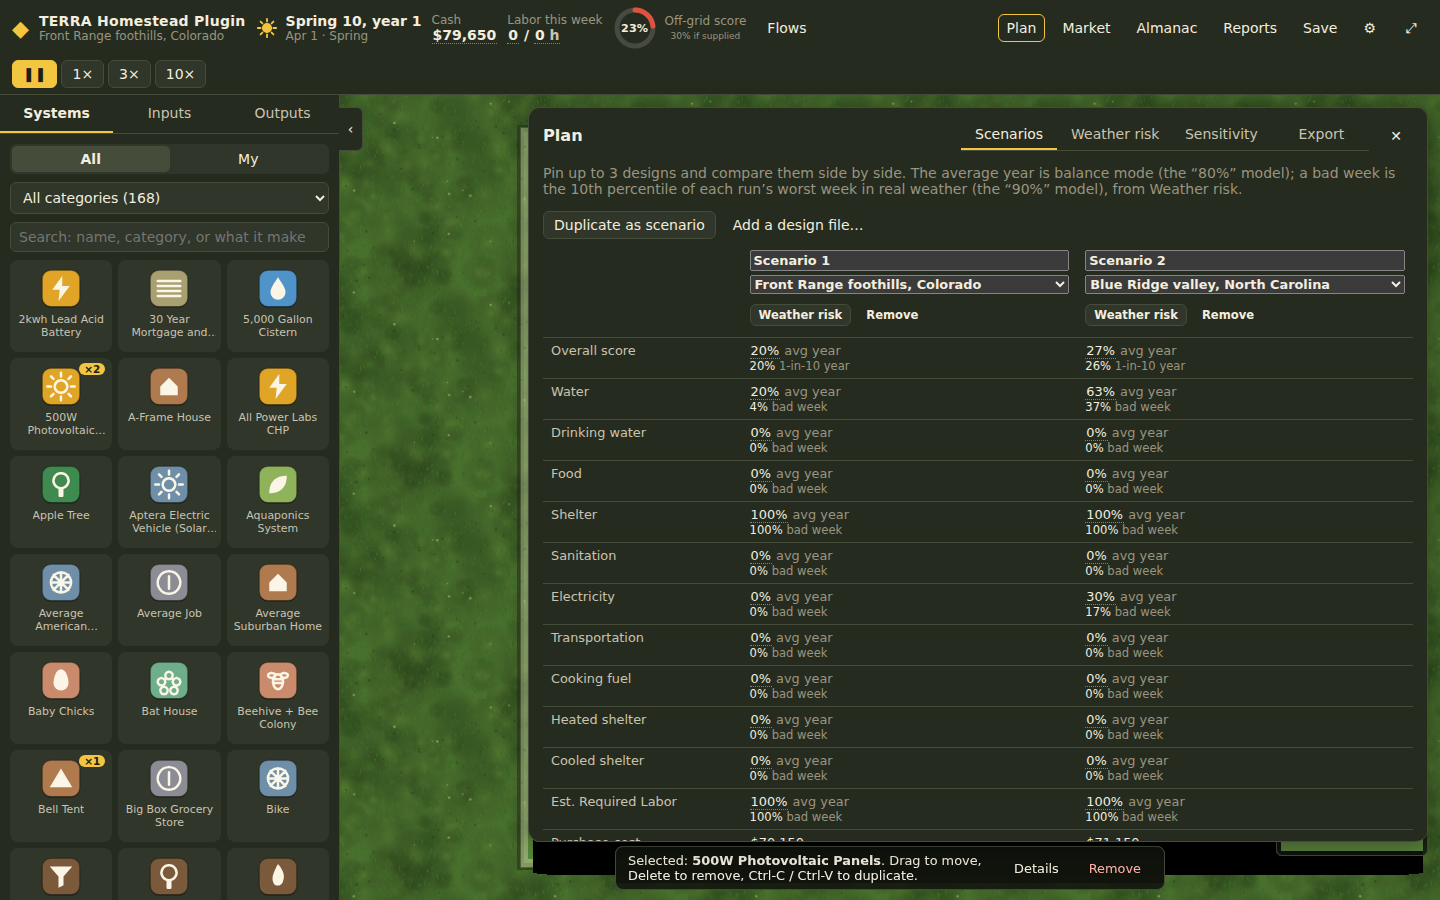
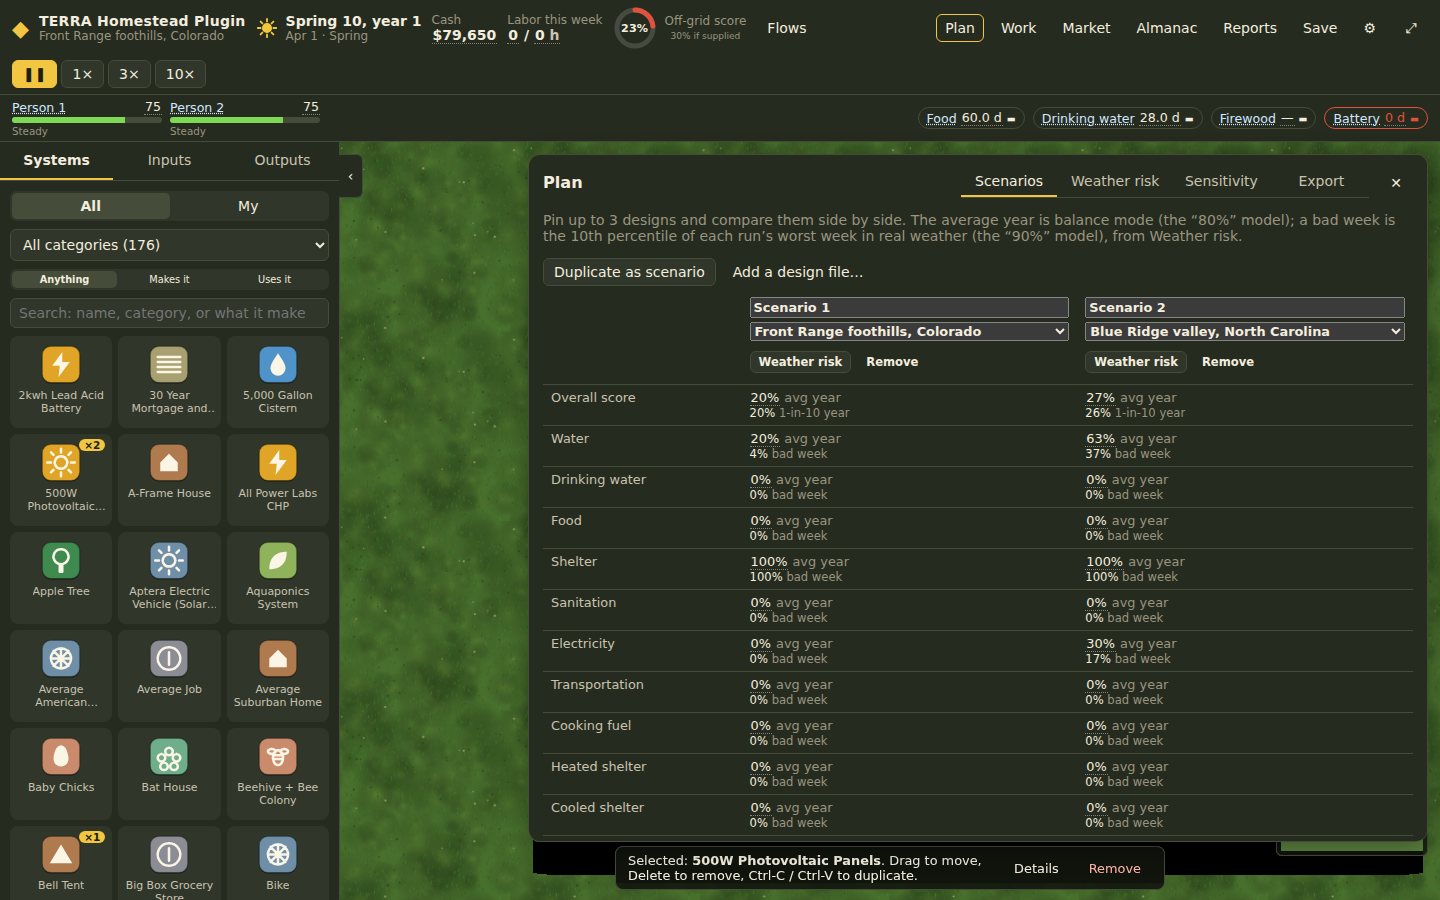
G16: quest card with show me, tutorial e2e, balance log and build log
Claude-Session: https://claude.ai/code/session_01Cgr9ruYvpu94GxHXpsg1dC

diff --git a/tests/e2e/tutorial.spec.ts b/tests/e2e/tutorial.spec.ts
@@ -1,0 +1,92 @@
+import { expect, test, type Page } from '@playwright/test';
+import { openApp, shot } from './helpers.ts';
+
+const title = (page: Page) => page.getByTestId('quest-title');
+
+/** Run the clock a day at a time until the quest card moves on (or give up). */
+async function untilQuestChanges(page: Page, from: string, maxDays = 30) {
+  for (let d = 0; d < maxDays; d++) {
+    if ((await title(page).textContent()) !== from) return;
+    await page.evaluate(() => window.__homestead!.store.getState().tick(1));
+  }
+  await expect(title(page)).not.toHaveText(from);
+}
+
+async function placeNearTent(page: Page, name: string, dx: number, dy: number) {
+  const ok = await page.evaluate(
+    ([n, ox, oy]) => {
+      const s = window.__homestead!.store.getState();
+      const tent = s.game.instances.find((i) => s.catalog.systems.find((x) => x.id === i.systemId)!.name.startsWith('Canvas Wall Tent'))!;
+      s.startPlacing(s.catalog.systems.find((x) => x.name === n)!.id, 'diy');
+      const r = window.__homestead!.store.getState().placeAt(tent.x + (ox as number), tent.y + (oy as number));
+      window.__homestead!.store.getState().cancelTool();
+      return r.ok;
+    },
+    [name, dx, dy] as const,
+  );
+  expect(ok, name).toBe(true);
+}
+
+test('the first five greenfield quests, with show me and the neighbor’s rewards', async ({ page }) => {
+  test.setTimeout(180_000);
+  await openApp(page);
+  await page.evaluate(() => window.__homestead!.store.getState().setWizard(true));
+  await page.getByTestId('start-greenfield').click();
+  await page.getByTestId('site-front-range').click();
+  await page.getByTestId('start-begin').click();
+  await page.evaluate(() => window.__homestead!.store.getState().zoomToFit());
+
+  // 1. Water: the barrel and the filter are in the kit; show me points at the barrel.
+  await expect(title(page)).toHaveText("Fill the rain barrel and filter a day's water");
+  await page.getByTestId('quest-show-me').click();
+  await expect(page.getByTestId('system-card')).toContainText('Rain Barrel');
+  await shot(page, 'g16', '01-quest-water-show-me');
+  await page.keyboard.press('Escape');
+  await untilQuestChanges(page, "Fill the rain barrel and filter a day's water");
+
+  // 2. Firewood: show me focuses the deadfall; a weekly cap in the Work panel sends someone out.
+  await expect(title(page)).toHaveText('Gather a week of firewood from the deadfall');
+  await page.getByTestId('quest-show-me').click();
+  await shot(page, 'g16', '02-quest-firewood-deadfall');
+  await page.getByTestId('open-work').click();
+  await page.getByTestId('cap-gather-wood').fill('6');
+  await page.getByTestId('cap-gather-wood').blur();
+  await page.getByTestId('open-work').click();
+  await untilQuestChanges(page, 'Gather a week of firewood from the deadfall');
+  const reward = await page.evaluate(() => window.__homestead!.store.getState().game.stocks['Root crops'] ?? 0);
+  expect(reward).toBeGreaterThan(0); // Ruth's seed potatoes
+
+  // 3. A raised bed (and the potatoes) with soil and compost from the market.
+  await expect(title(page)).toHaveText('Build a raised bed and plant it');
+  await page.getByTestId('quest-show-me').click();
+  await shot(page, 'g16', '03-quest-bed-show-me');
+  await page.keyboard.press('Escape');
+  await page.evaluate(() => {
+    const s = window.__homestead!.store.getState();
+    s.marketBuy('Soil', 24);
+    s.marketBuy('Compost', 250);
+  });
+  await placeNearTent(page, 'Raised Beds (24 sq ft)', 0, 30);
+  await placeNearTent(page, 'Potato Patch (400 sq ft)', 35, 35);
+  await untilQuestChanges(page, 'Build a raised bed and plant it');
+
+  // 4. Compost from kitchen scraps.
+  await expect(title(page)).toHaveText('Start a compost pile with leaf litter and kitchen scraps');
+  await placeNearTent(page, 'Bokashi Bucket', -20, 0);
+  await untilQuestChanges(page, 'Start a compost pile with leaf litter and kitchen scraps');
+  await shot(page, 'g16', '04-quest-compost-done');
+
+  // 5. Auto-gather: keep a week of water, set in the Work panel.
+  await expect(title(page)).toHaveText('Set an auto-gather rule so you never run out of water');
+  await page.getByTestId('quest-show-me').click();
+  await expect(page.getByTestId('work')).toBeVisible();
+  await page.getByTestId('auto-water').fill('7');
+  await page.getByTestId('auto-water').blur();
+  await shot(page, 'g16', '05-quest-autowater-work-panel');
+  await page.getByTestId('open-work').click();
+  await untilQuestChanges(page, 'Set an auto-gather rule so you never run out of water', 3);
+  await expect(title(page)).toHaveText('Add a chicken coop and keep the hens fed');
+  const done = await page.evaluate(() => Object.keys(window.__homestead!.store.getState().game.tutorial!.done));
+  expect(done).toHaveLength(5);
+  await shot(page, 'g16', '06-quest-six-hens-next');
+});

diff --git a/apps/web/src/ui/Quests.tsx b/apps/web/src/ui/Quests.tsx
@@ -1,4 +1,5 @@
-import { MILESTONES, QUESTS, shortageHints } from '@homestead/engine';
+import { MILESTONES, QUESTS, questView, shortageHints } from '@homestead/engine';
+import type { QuestShow } from '@homestead/catalog';
 import { fmtMoney, fmtNum, fmtPct } from '../lib/format.ts';
 import { useGame } from '../store/game.ts';
 
@@ -9,6 +10,7 @@ export function QuestCard() {
   const progress = useGame((s) => s.progress);
   const readOnly = useGame((s) => s.readOnly);
   if (progress.tutorialSkipped || readOnly) return null;
+  if (game.tutorial) return <TutorialCard />;
   const q = QUESTS.find((x) => progress.quests[x.id] === undefined);
   const done = QUESTS.filter((x) => progress.quests[x.id] !== undefined).length;
   const badges = MILESTONES.filter((m) => progress.milestones[m.id] !== undefined);
@@ -92,6 +94,69 @@ export function HintCard() {
           </li>
         ))}
       </ul>
+    </aside>
+  );
+}
+
+/** "Show me": point at the drawer item, node, resource page, or panel a quest is about. */
+export function showMe(show: QuestShow): void {
+  const st = useGame.getState();
+  switch (show.kind) {
+    case 'system': {
+      const sys = st.catalog.systems.find((x) => x.name === show.name);
+      st.setDrawer(true);
+      st.setDrawerTab('systems');
+      st.setDrawerQuery(show.name);
+      if (sys) st.openCard(sys.id);
+      return;
+    }
+    case 'node': {
+      const n = st.game.site.nodes.find((x) => x.type === show.type);
+      if (n) st.focusNode(n.id);
+      return;
+    }
+    case 'resource':
+      st.openResource(show.name);
+      return;
+    case 'panel':
+      st.setPanel(show.panel as Parameters<typeof st.setPanel>[0]);
+      return;
+  }
+}
+
+/** The pinned quest card for a start's quest line (G16): goal, progress, show me, and the row it moves. */
+function TutorialCard() {
+  const game = useGame((s) => s.game);
+  const catalog = useGame((s) => s.catalog);
+  const v = questView(game, catalog);
+  if (!v) return null;
+  const { quest, status } = v;
+  return (
+    <aside className="quest" aria-label="Current quest" data-testid="quest">
+      <div className="quest-top">
+        <span className="muted small">
+          Quest {v.index + 1} of {v.count} · moves <strong>{quest.row}</strong>
+        </span>
+        <button className="btn ghost small" onClick={() => useGame.getState().skipTutorial()} data-testid="skip-tutorial">
+          Skip tutorial
+        </button>
+      </div>
+      <h2 className="quest-title" data-testid="quest-title">
+        {quest.title}
+      </h2>
+      <p className="small">{quest.reason}</p>
+      <div className="bar" role="progressbar" aria-valuenow={Math.round(status.progress * 100)} aria-valuemin={0} aria-valuemax={100} aria-label="Quest progress">
+        <div className="bar-fill" style={{ width: fmtPct(status.progress) }} />
+      </div>
+      <p className="small muted" data-testid="quest-detail">
+        {status.detail}
+      </p>
+      <div className="row">
+        <button className="btn small" onClick={() => showMe(quest.show)} data-testid="quest-show-me">
+          Show me
+        </button>
+        <span className="muted small">Reward from {v.neighbor}</span>
+      </div>
     </aside>
   );
 }

diff --git a/apps/web/src/store/game.ts b/apps/web/src/store/game.ts
@@ -333,6 +333,12 @@ export const useGame = create<GameStore>()((set, get) => {
     kbCursor: null,
 
     skipTutorial() {
+      const g = get().game;
+      if (g.tutorial && !get().readOnly) {
+        // The quest line lives in the game (G16): skipping is a logged action.
+        const r = apply(g, { kind: 'tutorial', skip: true });
+        set((s) => ({ game: r.game, actions: [...s.actions, r.action] }));
+      }
       set((s) => ({ progress: { ...s.progress, tutorialSkipped: true } }));
     },
 
@@ -784,6 +790,12 @@ export const useGame = create<GameStore>()((set, get) => {
 
     setPanel(panel) {
       set({ panel, why: null, ...(panel ? { checklistOpen: false } : {}) });
+      const g = get().game;
+      // A quest can ask the player to look at something ("read your weekly bills").
+      if (panel && g.tutorial && !g.tutorial.ui.includes(panel) && !get().readOnly) {
+        const r = apply(g, { kind: 'ui', panel });
+        set((s) => ({ game: r.game, actions: [...s.actions, r.action] }));
+      }
     },
 
     setOverlay(o) {
@@ -886,7 +898,8 @@ function updateProgress(): void {
   const quests = { ...p.quests };
   const milestones = { ...p.milestones };
   let changed = false;
-  const current = QUESTS.find((q) => quests[q.id] === undefined);
+  // Games from a start run their own quest line in the engine (G16); the old line is for custom games.
+  const current = s.game.tutorial ? undefined : QUESTS.find((q) => quests[q.id] === undefined);
   if (current && !p.tutorialSkipped && current.check(s.game, s.catalog).done) {
     quests[current.id] = day;
     changed = true;
@@ -928,6 +941,9 @@ function toastForEvent(e: GameEvent): void {
     }
     case 'harvest':
       s.toast(`Harvest: ${name(e.systemId)} → ${e.resource}.`, 'info', e.instanceIds[0]);
+      break;
+    case 'quest':
+      s.toast(`Quest done: ${e.title}. ${e.reward}`, 'info');
       break;
     case 'hardship':
       s.toast(

diff --git a/docs/BALANCE_LOG.md b/docs/BALANCE_LOG.md
@@ -48,3 +48,46 @@ Catalog quantities are never tuned.
 | Greenfield Standard idle | Asheville | day 52 (food) | day 70 | ≥ 50 | ✓ |
 | Greenfield Gentle idle | all three | day 77 | day 116 or later | — | ✓ (≥ 90) |
 | Adapt Standard idle, 2 years | all three | none | none | 100 | ✓ (wellbeing ≥ 70, self-reliance < 5%) |
+
+## G16: the tuning loop
+
+The bots (`packages/cli/bots/`) played every gate on 3 sites × 3 seeds (`npm run test:pacing`). Each row below is one change, in the order it was made, with what it fixed. Every change is to data or a wellbeing-adjacent constant, except the four engine fixes, which are bugs the bots found rather than tuning.
+
+### Engine fixes the bots found (not tuning)
+
+| Fix | Symptom in the bot runs |
+|---|---|
+| Upkeep is job priority 1, not 3 (`time/gather.ts`). | While the coop and the mass heater were being built, construction plus survival gathering took the whole labor pool. The water filter and the toilet got no upkeep for 10 days, and wellbeing fell 30 points to a summer plateau of 57. |
+| Flow boosts draw on stock (`time/step.ts`). | Boost inputs that are Flows (the coop's scraps, greens, and carbon) were measured against Service output only, so they were always 0%. Every coop in every design laid about a third fewer eggs. |
+| Seed is kept from meals (`seedReserve`). | People ate the potato patch's 25 lbs of seed potatoes before planting season. A planted or being-planted system's per-season food seed is now held back. |
+| Weekly bills include running costs (house, cars). | "Weekly bills" counted only groceries and utilities. The adapt tutorial's last lever (a part-time job, one car) didn't show at all. Cash accounting is unchanged: running costs were always cash out. |
+
+### Data changes
+
+| # | Change | Kind | Why |
+|---|---|---|---|
+| 1 | Greenfield stockpile: no seed potatoes. Quest 2's reward gives 25 lbs instead ("Ruth splits her seed potatoes"). | start config, quest reward | They would be eaten before a patch existed to reserve them. |
+| 2 | Quest 3's steps also plant a Potato Patch, and buy 250 lbs of compost. | quest content | The only planting that can carry a quarter of the food in the first season. |
+| 3 | Quest 4 uses a Bokashi Bucket, not Compost Piles. | quest content | The pile took all the wild greens, so the hens got none. The bucket composts kitchen scraps under leaf litter, which matches the title. |
+| 4 | Quest 5's standing grocery order keeps above 14,000 kcal (half a week), up to 42,000. | quest content | Below one week of food, the auto-forage rule works the meadow between deliveries. |
+| 5 | Quest 6 adds 20 hours a week of foraging. | quest content | 5.9 hours a day of labor sat idle. Greens feed the hens (their boost) and the table. |
+| 6 | Quest 7: cold-snap threshold HDD 22 (was 30); a standing firewood order; a reward of $600 and 600 lbs of oak. | quest goal, content, reward | Asheville never reaches HDD 30. Deadfall can't carry three fires through a winter (about 7,800 lbs a year). |
+| 7 | Rewards: water $200 + 10 gal; firewood $300; bed $300 + 200 lbs compost; compost $200 + 50 lbs feed; auto-water 80,000 kcal; hens $500. | quest rewards | $8,000 doesn't buy a year of groceries, firewood, and feed (about $160 a week) plus builds. Without these, cash ran out in late winter on every site. |
+| 8 | Wild greens: produce by-product 0.5 → 1.0 lb per hour, regrowth 3 → 5 lbs a day. | node yields | Home-grown food stuck at 22–24%. |
+| 9 | Asheville: a second wild-greens patch. | site nodes | The wettest site had fewer greens than the Front Range. |
+| 10 | Springs: 25 gal per hour (Front Range was 15, Laramie 12), the roadmap's table value. | node yields | In a dry real-weather Laramie spring, the spring couldn't keep up once the beds and potatoes drank. The filter starved, and people went to town by day 59. |
+| 11 | Adapt quest 8: sell the second car, and put the commute and the grocery run first. | quest content | With a part-time job, one car (250 miles) covers the commute and groceries. Leisure miles take the cut (a comfort drift). |
+
+### Gate results after tuning (`npm run test:pacing`, seeds 1–3)
+
+| Gate | Front Range | Laramie | Asheville |
+|---|---|---|---|
+| Greenfield Standard idle: first hardship ≥ 28, nobody leaves < 60 | hardship day 53–54, nobody leaves | same | same |
+| Greenfield Standard tutorialFollower: every month ≥ 60; home-grown ≥ 25% by frost | lowest month 78; 31% | 78; 32% | 77; 29% |
+| Greenfield Gentle idle: nobody leaves < 90 | ✓ | ✓ | ✓ |
+| Greenfield Real weather tutorialFollower: survives in ≥ 2 of 3 | 3 of 3 | 3 of 3 | 3 of 3 |
+| Adapt Standard adaptUpgrader: bills −20%, wellbeing ≥ 70 | $807 → $627 (−22%), lowest 76 | −22%, 76 | −22%, 76 |
+
+**Open for the designer:**
+- Real weather doesn't bite: all 9 seeds survive year 1. The roadmap hoped it would ("difficulty should bite"), but the gate only asks for at least 2 of 3. Raising `wellbeingMult` for Real weather to 1.25, or making its stockpile smaller, would make it bite.
+- The tutorial follower lands on 77–78 for its lowest month. Comfort drift (no hot water, no car, a crowded tent) holds a camp at about 80, which is the intended "you can live like this, but you'd want more".

diff --git a/docs/BUILD_LOG.md b/docs/BUILD_LOG.md
@@ -787,3 +787,52 @@ Screenshots are in `docs/screenshots/g15/`.
 
 **For the user to check**
 - Open `data/source/LandLab_Sim_Systems_v2.xlsx` in Excel. The 8 new rows are at Systems 170–177, Flows 799–819, and Matrix 170–177. The summary is in `docs/catalog_patches/g15-diff.md`. The Shelter category now counts 21 systems, so its "Within target?" cell reads No (the retrofit carries the Shelter tag).
+
+## G16 — Tutorials and pacing gates (2026-10-01)
+
+**Shipped**
+- **Quest lines as data** (`data/quests/greenfield.json`, `adapt.json`): 8 quests each, in the roadmap's order and words. Each has a goal, the cheapest steps, a "show me" target, the checklist row it moves, and a neighbor's reward (Ruth on the next ridge; Dale across the street).
+  - The engine evaluates goals (`tutorial.ts`) and pays rewards at the end of the day, inside `stepDay`, so tutorials replay exactly.
+- **Quest card:** pinned, with progress, the goal's detail line, **Show me** (opens the drawer item and its card, focuses a node, opens a resource page, or opens a panel), the reward's sender, and Skip (a logged action). Opening the Market panel completes "Read your weekly bills". Quest-done toasts carry the neighbor's line.
+- **Bots** (`packages/cli/bots/`): idle, tutorialFollower, greedy, adaptUpgrader, plus `playBot`.
+- **Pacing gates:** all 5 of the roadmap's gates on 3 sites × 3 seeds, in three places:
+  - a Vitest suite;
+  - `npm run test:pacing` (a table, exit 1 on a miss);
+  - a **separate CI job**, "Pacing gates (playtest bots)".
+  - All 45 runs take about 3 seconds.
+- **The tuning loop**, recorded change by change with results in `docs/BALANCE_LOG.md`. It found four engine bugs, now fixed:
+  - upkeep starved by construction;
+  - Flow boosts always 0;
+  - seed potatoes eaten;
+  - running costs missing from the bills.
+
+**Tests:** 218 unit tests, including 7 pacing tests: the 5 gates, bot determinism, and the greedy bot.
+
+e2e `tutorial.spec.ts` (1): the first five greenfield quests through the UI, with Show me, the Work panel, the market, and placing. Screenshots are in `docs/screenshots/g16/`. Two G14/G12 unit tests were updated for the new upkeep priority and running costs.
+
+**Digests:** the time digests were re-recorded, for upkeep priority 1, Flow boosts, and the seed reserve. Balance digests and goldens are unchanged.
+
+**Decisions not in the roadmap**
+- **"Survives year 1"** = nobody goes to town during the year.
+- **"At least one food row ≥ 25% actual by autumn"** = home-grown food eaten (not bought) is at least 25% of the household's need over some 30-day window that ends by the site's first fall frost. Bought food would make "actual" trivially 100%.
+- **"Bills fall ≥ 20%"** compares the average week of weeks 2–5 with the last 4 weeks of the year.
+- **Rewards land at the end of a day**, as part of the engine state, not as UI actions. A bot and a player get identical rewards, and replays match.
+- **The greedy bot** ranks by cost per unit of the worst row's weekly output and skips anything costing more than half its cash. It has no gate; the roadmap gives it none.
+- **Old games keep the old quest line.** The G8 quests still run for custom games; only games from a start use the new lines.
+
+## Status at the end of the playability roadmap (G11–G16)
+
+All six sessions are done and pushed to `claude/gifted-hypatia-x158zw`, with no irreconcilable snags. The roadmap's "What to check when it comes back":
+- [x] The GoSun Fan test exists and passes (`truthful.test.ts`, `truthful.spec.ts`), and no checklist path calls `balancePotential` (only `balance/` and parity tests do).
+- [x] Spreadsheet goldens are untouched. Parity targets `balancePotential`. The G15 patch changed only the source hash and added 21 flow entries.
+- [x] The xlsx diff from `catalog_patch.py` adds rows only: `docs/catalog_patches/g15-diff.md`, 0 typed values changed.
+- [x] Pacing gates are real CI jobs, not skipped. `BALANCE_LOG.md` shows each tuned number and why.
+- [ ] **Greenfield idle at 1× in the browser:** count the days to the first hardship toast. The engine says day 53–54 on every site (the gate wants ≥ 28). Worth a look by eye.
+
+### Where to pick up locally
+1. **Review the workbook in Excel** (`data/source/LandLab_Sim_Systems_v2.xlsx`): Systems 170–177, Flows 799–819, Matrix 170–177. Re-running the patch script needs `pip install openpyxl` and LibreOffice Calc.
+2. **Play both starts for real.** The bots prove the gates, not the fun. The open questions are in `BALANCE_LOG.md`:
+   - Real weather currently survives 9 of 9 seeds;
+   - camps settle around wellbeing 80.
+3. **Run the full suites on your machine:** `npm test`, `npm run test:pacing`, and `npm run test:e2e`. CI runs them all; the pacing job is separate and fast.
+4. Open the PR when you're happy. This branch carries G11–G16. Per CLAUDE.md's "one session = one branch", you may prefer to split it.

diff --git a/docs/ENGINE.md b/docs/ENGINE.md
@@ -487,3 +487,28 @@ The stockpile view (`stockpileView`) shows days of food (every food in kcal), dr
 A system can change another system's flow (`systems.<id>.modifies` in the overrides). The exporter turns each modifier into an adjacency rule with `scope`:
 - `host`: the modifier sits on the receiver, with its centre inside the footprint. Example: the Home Weatherization Retrofit placed on a house scales the house's Heat request by 0.7.
 - `parcel`: anywhere on the parcel. Example: a Clothesline scales each person's Electricity request by 20/21, about 1 kWh a week less each.
+
+## Tutorials, bots, and pacing gates (G16)
+
+**Quest lines** are data (`data/quests/<line>.json`, validated by `QuestLineSchema`). A start names its line in `tutorial`. Each quest has:
+- a title, a one-line reason, and the checklist row it moves;
+- a **goal**: have N of a system; a system made X yesterday; gathered X since the quest began; a stock; an auto-gather setting; N cold days warm enough; home-grown food share over N days; a modifier in effect; a system gone; N days passed; or a panel opened;
+- **steps**: the cheapest way to do it, which the tutorial-following bot does;
+- a **show me** target: a drawer item, a node, a resource page, or a panel;
+- a **reward** from a neighbor: cash, or a stockpile top-up.
+
+The tutorial's state lives in the game (`state.tutorial`). At the end of each day, `stepDay` checks the current quest. When it is done, the reward lands between days (cash as a refund; stock straight in), the next quest begins, and a `quest` event fires. Rewards therefore replay exactly. Opening a panel a quest asks for, and skipping the tutorial, are logged actions (`ui`, `tutorial`).
+
+**Engine rules added while tuning:**
+- **Upkeep** is job priority 1, alongside survival gathering. Construction is 2.
+- **Flow boosts** (scraps, greens, carbon for hens) draw on stock left after direct requests. They used to read 0.
+- **Seed is kept from meals:** a planted system's per-season food seed (a potato patch's seed potatoes) is held back from the household.
+- **Weekly bills** include each system's running cost (house, cars) as its own line.
+
+**Bots** (`packages/cli/bots/`) are deterministic policies, and each logs its moves as replayable actions:
+- `idle`: does nothing;
+- `tutorialFollower`: does the current quest's steps once, then waits;
+- `greedy`: weekly, builds the cheapest system per unit of the worst row it can afford;
+- `adaptUpgrader`: one adapt project a month, in order.
+
+`playBot` runs a start with a bot. `GATES` and `runGates` are the five pacing gates. They run in Vitest (`packages/cli/test/pacing.test.ts`), through `npm run test:pacing` (a table; exits 1 on a miss), and as their own CI job.

diff --git a/CLAUDE.md b/CLAUDE.md
@@ -34,6 +34,8 @@ A top-down homestead planning simulator. Players place systems (shelters, panels
 - `npm run typecheck` / `npm run lint`
 - `npm run catalog:export` / `npm run catalog:check`
 - `npm run sim -- <balance|run|montecarlo> <design.json> [--site <id>] [--years N] [--seed N]`
+- `npm run test:pacing` — the playtest bots' pacing gates (3 seeds × 3 sites)
+- `python3 scripts/catalog_patch.py data/catalog_patches/<patch>.json` — add catalog systems as xlsx rows
 
 ## Layout
 - `packages/catalog` — xlsx exporter, zod schema, validators, generated catalog and goldens
@@ -41,7 +43,9 @@ A top-down homestead planning simulator. Players place systems (shelters, panels
 - `packages/cli` — headless runner
 - `apps/web` — Vite + React + PixiJS + Zustand UI
 - `tests/e2e` — Playwright specs
-- `data/sites` — climate presets
+- `data/sites` — climate presets and natural nodes
+- `data/starts`, `data/quests` — the two starts and their tutorial quest lines
+- `packages/cli/bots` — playtest bots and pacing gates
 
 ## Conventions
 - TypeScript strict. Named exports. Pure functions take state and return new state.
